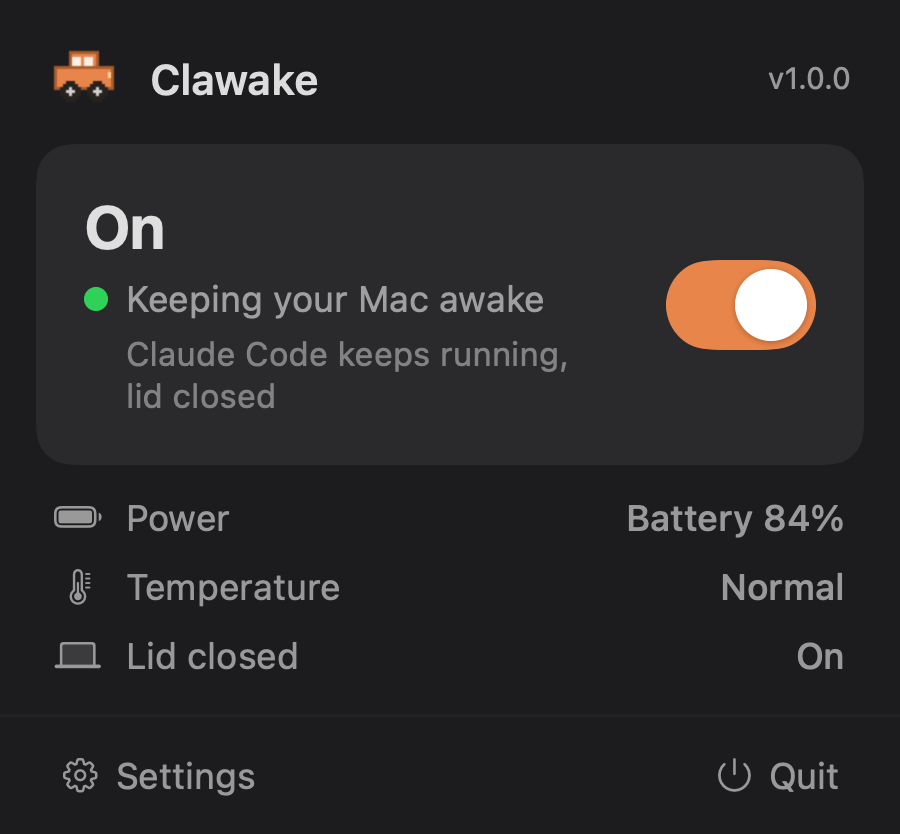
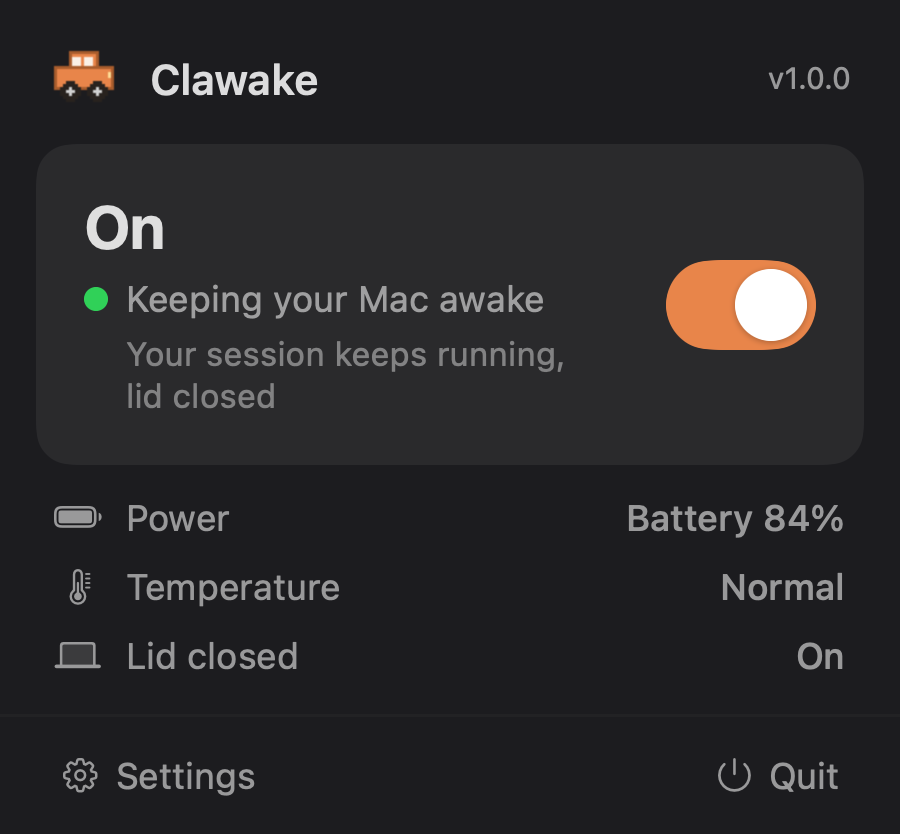
Reposition for search: lead broad (keep Mac awake, lid closed), Claude Code as top use case
Site title/meta/hero, README headline, app Settings + popover copy, and the panel
screenshot now lead with the searchable value; Claude Code, builds, servers, SSH are
featured use cases.

Changed region(s): [[0.1244, 0.4053, 0.6222, 0.4676]]

diff --git a/docs/index.html b/docs/index.html
@@ -1,8 +1,8 @@
-<title>Clawake: Keep Claude Code Running With the Lid Closed</title>
+<title>Clawake — Keep your Mac awake with the lid closed</title>
 <meta name="viewport" content="width=device-width, initial-scale=1">
-<meta name="description" content="Clawake keeps your Mac awake with the lid closed, so a Claude Code run, a build, or a server keeps going after you shut the laptop. A tiny native menu bar app, universal for Apple Silicon and Intel.">
-<meta property="og:title" content="Clawake: Keep Claude Code Running With the Lid Closed">
-<meta property="og:description" content="Start a long Claude Code run, close the laptop, and it keeps working. Clawake holds your Mac awake through a closed lid, so the session stays alive and reachable.">
+<meta name="description" content="Clawake keeps your Mac awake, even with the lid closed or the screen locked. A tiny, free, open-source menu bar app that keeps Claude Code, builds, servers, SSH, and downloads running after you shut the laptop. Notarized, universal for Apple Silicon and Intel.">
+<meta property="og:title" content="Clawake — Keep your Mac awake with the lid closed">
+<meta property="og:description" content="Keep your Mac awake, even with the lid closed. Clawake keeps Claude Code, builds, and servers running after you shut the laptop, and reachable from anywhere.">
 <meta property="og:type" content="website">
 <meta property="og:url" content="https://itaizeilig.github.io/clawake/">
 <meta property="og:image" content="https://itaizeilig.github.io/clawake/app-icon.png">
@@ -219,8 +219,8 @@
     <div class="wrap">
       <div class="hero-copy">
         <span class="eyebrow">Menu bar app for macOS</span>
-        <h1>Keep Claude Code running<br><span class="soft">with the lid closed.</span></h1>
-        <p class="lede">Start a long run, shut the laptop, and it keeps working. Clawake holds your Mac awake, so builds finish, servers stay up, and you reconnect from anywhere, no dropped sessions.</p>
+        <h1>Keep your Mac awake<br><span class="soft">with the lid closed.</span></h1>
+        <p class="lede">Start a long task, shut the laptop, and your Mac keeps working. Clawake keeps it awake through a closed lid, so Claude Code runs, builds, and servers stay alive and reachable from anywhere, no dropped sessions.</p>
         <div class="hero-cta">
           <a class="btn btn-primary" href="https://github.com/ItaiZeilig/clawake/releases/download/v1.0.0/Clawake-1.0.0.dmg" aria-label="Download Clawake for Mac">
             <svg viewBox="0 0 24 24" fill="currentColor" aria-hidden="true"><path d="M17.05 20.28c-.98.95-2.05.8-3.08.35-1.09-.46-2.09-.48-3.24 0-1.44.62-2.2.44-3.06-.35C2.79 15.25 3.51 7.59 9.05 7.31c1.35.07 2.29.74 3.08.8 1.18-.24 2.31-.93 3.57-.84 1.51.12 2.65.72 3.4 1.8-3.12 1.87-2.38 5.98.48 7.13-.57 1.5-1.31 2.99-2.51 4.09zM12.03 7.25c-.15-2.23 1.66-4.07 3.74-4.25.29 2.58-2.34 4.5-3.74 4.25z"/></svg>

diff --git a/Sources/Clawake/App/AppState.swift b/Sources/Clawake/App/AppState.swift
@@ -262,7 +262,7 @@ final class AppState: ObservableObject {
 
     private func describe(decision: Decision, lidActive: Bool) -> (String, String) {
         if decision.awake {
-            if lidActive { return ("Keeping your Mac awake", "Claude Code keeps running, lid closed") }
+            if lidActive { return ("Keeping your Mac awake", "Your session keeps running, lid closed") }
             if lidApprovalNeeded { return ("Keeping your Mac awake", "Approve to allow the lid closed") }
             return ("Keeping your Mac awake", "Sleeps when you close the lid")
         }

diff --git a/Sources/Clawake/Support/Render.swift b/Sources/Clawake/Support/Render.swift
@@ -14,7 +14,7 @@ func renderPanel(to path: String) {
             isOn: true, awake: true, statusTitle: "Keeping your Mac awake",
             powerText: "Battery 84%", thermalText: "Normal",
             thermalLevel: .nominal, lidClosedOn: true,
-            statusDetail: "Claude Code keeps running, lid closed")
+            statusDetail: "Your session keeps running, lid closed")
 
         // The .solid style is a dark panel; the live app forces darkAqua so the
         // semantic text colors resolve light. ImageRenderer defaults to light, so

diff --git a/Sources/Clawake/Settings/Settings.swift b/Sources/Clawake/Settings/Settings.swift
@@ -90,7 +90,7 @@ struct SettingsView: View {
             }
             Text(controller.didOnboard ? "Settings" : "Welcome to Clawake")
                 .font(.system(size: 20, weight: .bold))
-            Text("Keep Claude Code running, even with the lid closed.")
+            Text("Keep your Mac awake, even with the lid closed.")
                 .font(.system(size: 12)).foregroundColor(.secondary)
         }
         .padding(.top, 4).padding(.bottom, 4)

diff --git a/README.md b/README.md
@@ -4,12 +4,12 @@
 
 # Clawake
 
-**Keep Claude Code running with the lid closed.**
+**Keep your Mac awake, even with the lid closed.**
 
-A tiny, native macOS menu bar app. Start a Claude Code session, shut the lid, and it keeps
-working: your agent run, build, local server, or SSH session stays alive while the Mac is
-closed in your bag or on your desk. Clawake keeps the whole Mac awake, so anything you
-leave running keeps going, and you can reconnect from anywhere.
+A tiny, native macOS menu bar app. Shut the lid and your Mac keeps working, so a Claude Code
+session, an agent run, a build, a local server, or an SSH connection stays alive instead of
+freezing when the Mac would sleep. It works with the lid closed (no external display needed),
+and you can reconnect from anywhere.
 
 ![macOS 13+](https://img.shields.io/badge/macOS-13%2B-1d1d1f?logo=apple&logoColor=white)
 ![Swift 5.9](https://img.shields.io/badge/Swift-5.9-f05138?logo=swift&logoColor=white)
